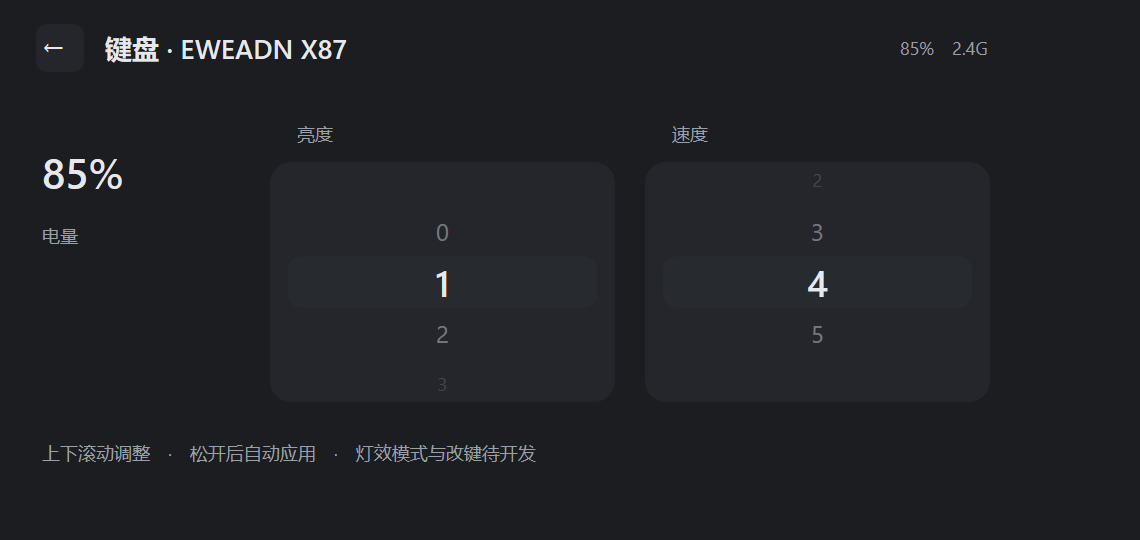
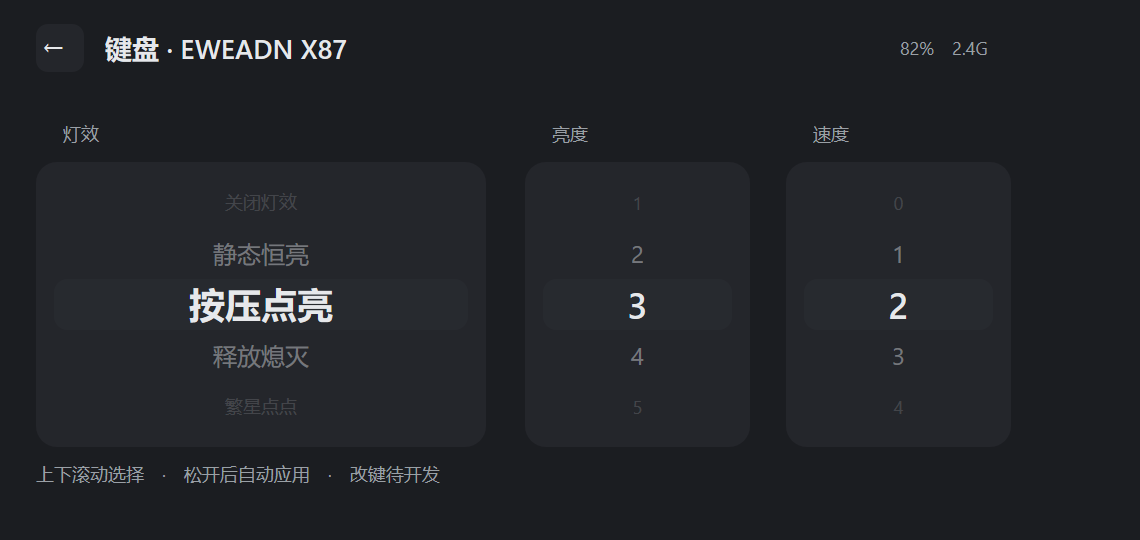
feat(kb): 灯效模式表接入 + 噪声帧校验
- 从 E HUB 打包资源中提取 22 项灯效模式（value 与中文名），键盘页新增模式滚轮
- 实测确认 mode 是动态灯效的实时阶段：写入有效，但读回值会随动画变化，
  不能用于回显或"读-改-写"还原
- 键盘电池读取增加 VID 校验：偶发返回 VID 0x0002 / 电量 0 的噪声帧
- 灯效读取增加 mode 合法性校验（1..20 或 254），失败重试
- 新增 kb_setled 工具，可直接设定模式/亮度/速度（用于恢复）

实测：亮度 2→3、速度 4→2、模式设为 18（斜风细雨），与网页端设置一致。

diff --git a/src/hub.cpp b/src/hub.cpp
@@ -562,8 +562,26 @@ struct Wheel {
 
 Wheel g_dpiWheel;
 Wheel g_rateWheel;
+Wheel g_modeWheel;
 Wheel g_brightWheel;
 Wheel g_speedWheel;
+
+// 灯效模式表（来自 E HUB i18n 的 huafenda 分组）
+const int kLedModeValues[22] = {9999, 1, 2, 3, 4, 5, 6, 7, 8, 9, 10, 11,
+                                12, 13, 14, 15, 16, 17, 18, 19, 254, 20};
+const wchar_t* kLedModeNames[22] = {
+    L"关闭灯效", L"静态恒亮", L"按压点亮", L"释放熄灭", L"繁星点点", L"漫天飞雪",
+    L"百花争艳", L"动态呼吸", L"光谱循环", L"彩泉涌动", L"多彩纵横", L"随波逐流",
+    L"峰回路转", L"一触即发", L"一石二鸟", L"涟漪扩散", L"川流不息", L"重峦叠嶂",
+    L"斜风细雨", L"来回穿梭", L"心动时刻", L"自定义"};
+constexpr int kLedModeCount = 22;
+
+int LedModeIndex(int modeValue) {
+    for (int i = 0; i < kLedModeCount; ++i) {
+        if (kLedModeValues[i] == modeValue) return i;
+    }
+    return 1;
+}
 int g_dragWheel = -1;
 int g_dragStartY = 0;
 int g_dragStartSel = 0;
@@ -611,7 +629,8 @@ Wheel* WheelById(int id) {
     switch (id) {
         case 0: return &g_dpiWheel;
         case 1: return &g_rateWheel;
-        case 2: return &g_brightWheel;
+        case 2: return &g_modeWheel;
+        case 3: return &g_brightWheel;
         default: return &g_speedWheel;
     }
 }
@@ -708,19 +727,26 @@ void OnPaintMouseDetail() {
 }
 
 void SyncKbWheels() {
-    g_brightWheel.x = 180.0f;
+    g_modeWheel.x = 24.0f;
+    g_modeWheel.y = 108.0f;
+    g_modeWheel.w = 300.0f;
+    g_modeWheel.h = 190.0f;
+    g_modeWheel.count = kLedModeCount;
+    g_modeWheel.selected = LedModeIndex(g.kbLed.ok ? g.kbLed.mode : 1);
+
+    g_brightWheel.x = 350.0f;
     g_brightWheel.y = 108.0f;
-    g_brightWheel.w = 230.0f;
-    g_brightWheel.h = 160.0f;
+    g_brightWheel.w = 150.0f;
+    g_brightWheel.h = 190.0f;
     g_brightWheel.count = 6;
     g_brightWheel.selected = g.kbLed.ok ? g.kbLed.brightness : 0;
     if (g_brightWheel.selected < 0) g_brightWheel.selected = 0;
     if (g_brightWheel.selected > 5) g_brightWheel.selected = 5;
 
-    g_speedWheel.x = 430.0f;
+    g_speedWheel.x = 524.0f;
     g_speedWheel.y = 108.0f;
-    g_speedWheel.w = 230.0f;
-    g_speedWheel.h = 160.0f;
+    g_speedWheel.w = 150.0f;
+    g_speedWheel.h = 190.0f;
     g_speedWheel.count = 6;
     g_speedWheel.selected = g.kbLed.ok ? g.kbLed.speed : 0;
     if (g_speedWheel.selected < 0) g_speedWheel.selected = 0;
@@ -740,28 +766,22 @@ void OnPaintKbDetail() {
     }
     DrawTextAt(status, g.fmtSmall, D2D1::RectF(S(600), S(24), S(736), S(44)), kTextDim);
 
-    // 电量
-    wchar_t val[32];
-    if (g.kbConnected && g.kbBattery >= 0) {
-        swprintf_s(val, L"%d%%", g.kbBattery);
-    } else {
-        wcscpy_s(val, L"--");
-    }
-    DrawTextAt(val, g.fmtValue, D2D1::RectF(S(28), S(96), S(170), S(148)), kText);
-    DrawTextAt(L"电量", g.fmtSmall, D2D1::RectF(S(28), S(150), S(170), S(168)), kTextDim);
+    std::vector<std::wstring> modeLabels;
+    for (int i = 0; i < kLedModeCount; ++i) modeLabels.emplace_back(kLedModeNames[i]);
 
-    std::vector<std::wstring> labels;
+    std::vector<std::wstring> numLabels;
     for (int i = 0; i <= 5; ++i) {
         wchar_t b[8];
         swprintf_s(b, L"%d", i);
-        labels.emplace_back(b);
+        numLabels.emplace_back(b);
     }
 
-    DrawWheel(g_brightWheel, labels, L"亮度");
-    DrawWheel(g_speedWheel, labels, L"速度");
+    DrawWheel(g_modeWheel, modeLabels, L"灯效");
+    DrawWheel(g_brightWheel, numLabels, L"亮度");
+    DrawWheel(g_speedWheel, numLabels, L"速度");
 
-    DrawTextAt(L"上下滚动调整　·　松开后自动应用　·　灯效模式与改键待开发", g.fmtSmall,
-               D2D1::RectF(S(28), S(294), S(736), S(314)), kTextDim);
+    DrawTextAt(L"上下滚动选择　·　松开后自动应用　·　改键待开发", g.fmtSmall,
+               D2D1::RectF(S(24), S(308), S(736), S(328)), kTextDim);
 }
 
 void OnPaint() {
@@ -1103,7 +1123,8 @@ LRESULT CALLBACK PanelProc(HWND hwnd, UINT msg, WPARAM wp, LPARAM lp) {
             } else if (wp == 3) {
                 KillTimer(hwnd, 3);
                 g_pendingWrite = -1;
-                if (WriteKeyboardLed(g_brightWheel.selected, g_speedWheel.selected)) {
+                if (WriteKeyboardLed(kLedModeValues[g_modeWheel.selected], g_brightWheel.selected,
+                                     g_speedWheel.selected)) {
                     if (g.wakeEvent != nullptr) SetEvent(g.wakeEvent);
                 } else {
                     SyncKbWheels();
@@ -1145,14 +1166,6 @@ LRESULT CALLBACK PanelProc(HWND hwnd, UINT msg, WPARAM wp, LPARAM lp) {
                 const int rt = g.mouseCfg.rateIndex;
                 if (rt >= 0 && rt < g_rateWheel.count && rt != g_rateWheel.selected) {
                     g_rateWheel.selected = rt;
-                }
-            } else if (g_view == ViewMode::KbDetail && g_dragWheel < 0 && g_pendingWrite < 0 &&
-                       g.kbLed.ok) {
-                if (g.kbLed.brightness >= 0 && g.kbLed.brightness <= 5) {
-                    g_brightWheel.selected = g.kbLed.brightness;
-                }
-                if (g.kbLed.speed >= 0 && g.kbLed.speed <= 5) {
-                    g_speedWheel.selected = g.kbLed.speed;
                 }
             }
 

diff --git a/src/kb_setled.cpp b/src/kb_setled.cpp
@@ -1,0 +1,123 @@
+// kb_setled.cpp - 设定键盘灯效模式/亮度/速度
+// 用法：kb_setled.exe <mode> <brightness> <speed>
+#define WIN32_LEAN_AND_MEAN
+#define NOMINMAX
+#include <windows.h>
+#include <setupapi.h>
+#include <hidsdi.h>
+#include <hidpi.h>
+
+#include <cstdio>
+#include <cstdlib>
+#include <string>
+#include <vector>
+
+#pragma comment(lib, "setupapi.lib")
+#pragma comment(lib, "hid.lib")
+
+namespace {
+
+constexpr USHORT kVid = 0x0C45, kPid = 0xFEFE;
+
+std::wstring FindIface() {
+    GUID g{}; HidD_GetHidGuid(&g);
+    HDEVINFO d = SetupDiGetClassDevsW(&g, nullptr, nullptr, DIGCF_PRESENT | DIGCF_DEVICEINTERFACE);
+    if (d == INVALID_HANDLE_VALUE) return L"";
+    std::wstring found;
+    for (DWORD i = 0; found.empty(); ++i) {
+        SP_DEVICE_INTERFACE_DATA itf = {sizeof(itf)};
+        if (!SetupDiEnumDeviceInterfaces(d, nullptr, &g, i, &itf)) break;
+        DWORD need = 0;
+        SetupDiGetDeviceInterfaceDetailW(d, &itf, nullptr, 0, &need, nullptr);
+        if (!need) continue;
+        std::vector<BYTE> raw(need);
+        auto* det = reinterpret_cast<PSP_DEVICE_INTERFACE_DETAIL_DATA_W>(raw.data());
+        det->cbSize = sizeof(SP_DEVICE_INTERFACE_DETAIL_DATA_W);
+        if (!SetupDiGetDeviceInterfaceDetailW(d, &itf, det, need, nullptr, nullptr)) continue;
+        HANDLE h = CreateFileW(det->DevicePath, 0, FILE_SHARE_READ | FILE_SHARE_WRITE, nullptr,
+                               OPEN_EXISTING, 0, nullptr);
+        if (h == INVALID_HANDLE_VALUE) continue;
+        HIDD_ATTRIBUTES a{}; a.Size = sizeof(a);
+        if (HidD_GetAttributes(h, &a) && a.VendorID == kVid && a.ProductID == kPid) {
+            PHIDP_PREPARSED_DATA p = nullptr;
+            if (HidD_GetPreparsedData(h, &p) && p) {
+                HIDP_CAPS c{};
+                if (HidP_GetCaps(p, &c) == HIDP_STATUS_SUCCESS && c.UsagePage == 0xFF60 &&
+                    c.Usage == 0x0061) found = det->DevicePath;
+                HidD_FreePreparsedData(p);
+            }
+        }
+        CloseHandle(h);
+    }
+    SetupDiDestroyDeviceInfoList(d);
+    return found;
+}
+
+bool Rd(HANDLE h, DWORD n, DWORD ms, std::vector<BYTE>* o) {
+    std::vector<BYTE> b(n, 0);
+    OVERLAPPED ov{}; ov.hEvent = CreateEventW(nullptr, TRUE, FALSE, nullptr);
+    DWORD r = 0;
+    BOOL ok = ReadFile(h, b.data(), n, &r, &ov);
+    if (!ok) {
+        if (GetLastError() != ERROR_IO_PENDING || WaitForSingleObject(ov.hEvent, ms) != WAIT_OBJECT_0 ||
+            !GetOverlappedResult(h, &ov, &r, FALSE)) { CancelIo(h); CloseHandle(ov.hEvent); return false; }
+    }
+    CloseHandle(ov.hEvent); b.resize(r); *o = std::move(b); return r > 0;
+}
+
+bool Wr(HANDLE h, std::vector<BYTE>& b) {
+    OVERLAPPED ov{}; ov.hEvent = CreateEventW(nullptr, TRUE, FALSE, nullptr);
+    DWORD w = 0;
+    BOOL ok = WriteFile(h, b.data(), (DWORD)b.size(), &w, &ov);
+    if (!ok) {
+        if (GetLastError() != ERROR_IO_PENDING || WaitForSingleObject(ov.hEvent, 500) != WAIT_OBJECT_0 ||
+            !GetOverlappedResult(h, &ov, &w, FALSE)) { CloseHandle(ov.hEvent); return false; }
+    }
+    CloseHandle(ov.hEvent); return true;
+}
+
+}  // namespace
+
+int main(int argc, char** argv) {
+    SetConsoleOutputCP(CP_UTF8);
+    const int mode = argc > 1 ? std::atoi(argv[1]) : 18;
+    const int bright = argc > 2 ? std::atoi(argv[2]) : 3;
+    const int speed = argc > 3 ? std::atoi(argv[3]) : 2;
+
+    std::wstring path = FindIface();
+    if (path.empty()) { std::printf("未找到键盘\n"); return 1; }
+
+    HANDLE h = CreateFileW(path.c_str(), GENERIC_READ | GENERIC_WRITE,
+                           FILE_SHARE_READ | FILE_SHARE_WRITE, nullptr,
+                           OPEN_EXISTING, FILE_FLAG_OVERLAPPED, nullptr);
+    if (h == INVALID_HANDLE_VALUE) { std::printf("打开失败 %lu\n", GetLastError()); return 1; }
+
+    // 读当前 16 字节作为底稿
+    std::vector<BYTE> f(33, 0);
+    f[0] = 0x00; f[1] = 0xAA; f[2] = 19; f[3] = 16;
+    BYTE led[16] = {};
+    if (Wr(h, f)) {
+        Sleep(70);
+        std::vector<BYTE> r;
+        if (Rd(h, 33, 800, &r) && r.size() >= 25) {
+            for (int i = 0; i < 16; ++i) led[i] = r[9 + i];
+        }
+    }
+
+    led[0] = static_cast<BYTE>(mode);
+    led[4] = 255;
+    led[9] = static_cast<BYTE>(bright);
+    led[10] = static_cast<BYTE>(speed);
+    led[14] = 0xAA;
+    led[15] = 0x55;
+
+    std::vector<BYTE> w(33, 0);
+    w[0] = 0x00; w[1] = 0xAA; w[2] = 35; w[3] = 16;
+    for (int i = 0; i < 16; ++i) w[9 + i] = led[i];
+
+    if (!Wr(h, w)) { std::printf("写入失败\n"); CloseHandle(h); return 1; }
+    std::printf("已设置 mode=%d brightness=%d speed=%d\n", mode, bright, speed);
+
+    CloseHandle(h);
+    return 0;
+}

diff --git a/src/device.cpp b/src/device.cpp
@@ -268,6 +268,12 @@ bool ReadKeyboardBattery(DeviceReading* r) {
             continue;
         }
         const BYTE* info = resp.data() + 9;
+        // 噪声帧校验：偶发返回 VID 0x0002 / 电量 0 的无效数据
+        const USHORT vid = static_cast<USHORT>(info[4] | (info[5] << 8));
+        if (vid != kKbVid) {
+            Sleep(120);
+            continue;
+        }
         r->kbOk = true;
         r->kbBattery = info[17];
         r->kbCharge = info[18];
@@ -411,7 +417,14 @@ KeyboardLed ReadKeyboardLed() {
     if (h == INVALID_HANDLE_VALUE) return k;
 
     BYTE led[16] = {};
-    if (KbReadLedBlock(h, led)) {
+    for (int attempt = 0; attempt < 3; ++attempt) {
+        if (!KbReadLedBlock(h, led)) { Sleep(120); continue; }
+        const int m = led[0];
+        // 合法灯效模式：1..20 或 254
+        if ((m >= 1 && m <= 20) || m == 254) break;
+        Sleep(120);
+    }
+    if ((led[0] >= 1 && led[0] <= 20) || led[0] == 254) {
         k.ok = true;
         k.mode = led[0];
         k.r = led[1];
@@ -425,7 +438,7 @@ KeyboardLed ReadKeyboardLed() {
     return k;
 }
 
-bool WriteKeyboardLed(int brightness, int speed) {
+bool WriteKeyboardLed(int mode, int brightness, int speed) {
     Iface it;
     if (!FindIface(kKbVid, kKbPid, kKbPage, kKbUsage, &it)) return false;
 
@@ -440,18 +453,15 @@ bool WriteKeyboardLed(int brightness, int speed) {
         return false;
     }
 
+    led[0] = static_cast<BYTE>(mode & 0xFF);
     led[4] = 255;
     led[9] = static_cast<BYTE>(brightness & 0xFF);
     led[10] = static_cast<BYTE>(speed & 0xFF);
     led[14] = 0xAA;
     led[15] = 0x55;
 
-    bool ok = KbWriteLedBlock(h, led);
-    if (ok) {
-        Sleep(200);
-        BYTE check[16] = {};
-        ok = KbReadLedBlock(h, check) && check[9] == led[9];
-    }
+    // 灯效是动态的，读回值不可靠，只校验写入是否被接受
+    const bool ok = KbWriteLedBlock(h, led);
     CloseHandle(h);
     return ok;
 }

diff --git a/src/device.h b/src/device.h
@@ -53,8 +53,8 @@ struct KeyboardLed {
 };
 KeyboardLed ReadKeyboardLed();
 
-// 只改亮度与速度，其余字段原样保留；写完回读确认
-bool WriteKeyboardLed(int brightness, int speed);
+// 设定模式/亮度/速度，其余字段原样保留
+bool WriteKeyboardLed(int mode, int brightness, int speed);
 
 // ---------- 配置备份与恢复（FR-T4） ----------
 

diff --git a/docs/EWEADN-键盘协议.md b/docs/EWEADN-键盘协议.md
@@ -118,6 +118,37 @@ send({cmd: 35, contentSize: 16, data: n})
 
 ---
 
+## 灯效模式表（22 项）
+
+来自 E HUB 打包资源中的 `keyboard.lighting.huafenda.*` 文案与同文件里的
+`{labelKey, value, original}` 数组：
+
+| value | 名称 | value | 名称 |
+|---|---|---|---|
+| 9999 | 关闭灯效 | 12 | 峰回路转 |
+| 1 | 静态恒亮 | 13 | 一触即发 |
+| 2 | 按压点亮 | 14 | 一石二鸟 |
+| 3 | 释放熄灭 | 15 | 涟漪扩散 |
+| 4 | 繁星点点 | 16 | 川流不息 |
+| 5 | 漫天飞雪 | 17 | 重峦叠嶂 |
+| 6 | 百花争艳 | 18 | 斜风细雨 |
+| 7 | 动态呼吸 | 19 | 来回穿梭 |
+| 8 | 光谱循环 | 254 | 心动时刻 |
+| 9 | 彩泉涌动 | 20 | 自定义 |
+| 10 | 多彩纵横 | — | — |
+| 11 | 随波逐流 | — | — |
+
+> `9999` 超出 u8 范围，写入时会被截断；"关闭灯效"可能需走别的字段，
+> 目前未验证，UI 里保留该项但尚未实测。
+
+**重要：`mode` 读值不可靠。** 实测连续读取会得到 2/3/4/9/17/18/20 等不同值，
+而 `brightness` / `speed` 稳定。判断 `mode` 反映的是**动态灯效的当前渲染阶段**，
+而非用户设定的固定模式。因此：
+
+- 写入 `mode` 有效（键盘会切换到对应灯效）
+- **读回值不能用来回显当前模式**，UI 显示仅供参考
+- 不要用"读-改-写"来还原灯效，会越改越偏
+
 ## 回报率
 
 命令表中未见独立的回报率命令。`cmd 23` 疑似与轴/回报率相关，但字段未知。
@@ -128,8 +159,8 @@ send({cmd: 35, contentSize: 16, data: n})
 ## 待验证清单
 
 1. ✅ cmd 19 返回 16 字节灯效参数，已实机确认
-2. ⬜ 灯效 `mode` 的取值范围与名称（读回时 `mode` 会在 3/4/9/17/20 之间变化，
-   疑似动态灯效的实时阶段，而非固定配置值）
+2. ✅ 灯效 `mode` 取值与名称已确定（22 项，见上表）；但**读值随动画变化**，
+   不能作为配置回显
 3. ⬜ `brightness` / `speed` 的取值区间（实测 brightness=5 可用，无法确认上限）
 4. ⬜ 主层 128 键的 index → 物理按键映射（87 键 TKL），需从驱动键位表提取
 5. ⬜ `cmd 23` 是否为回报率（返回全 0，未能确认）
